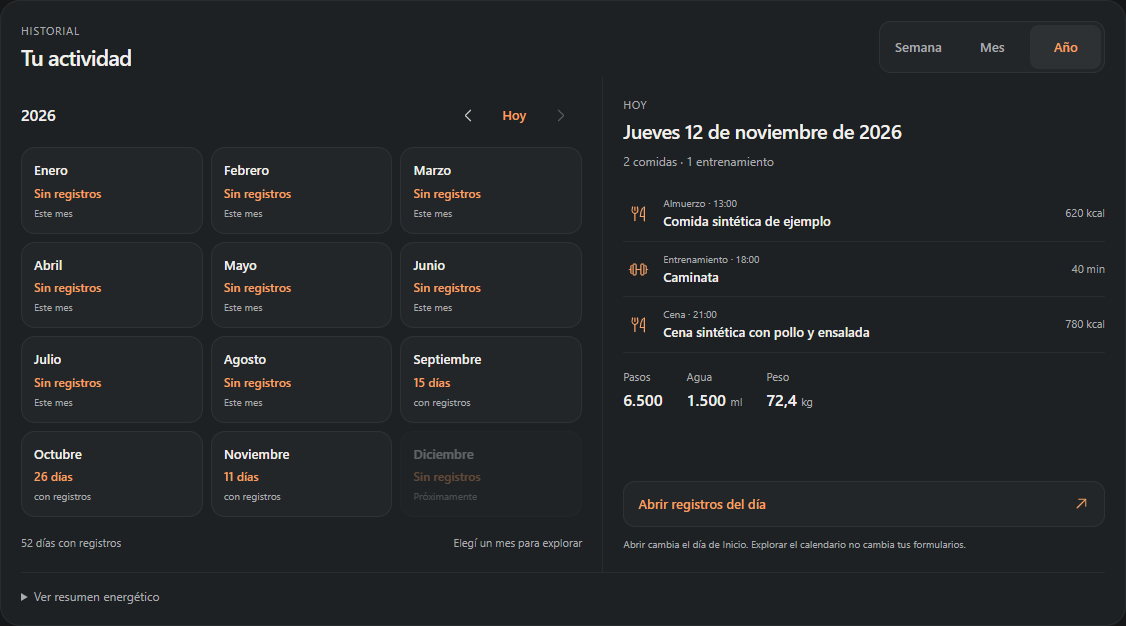
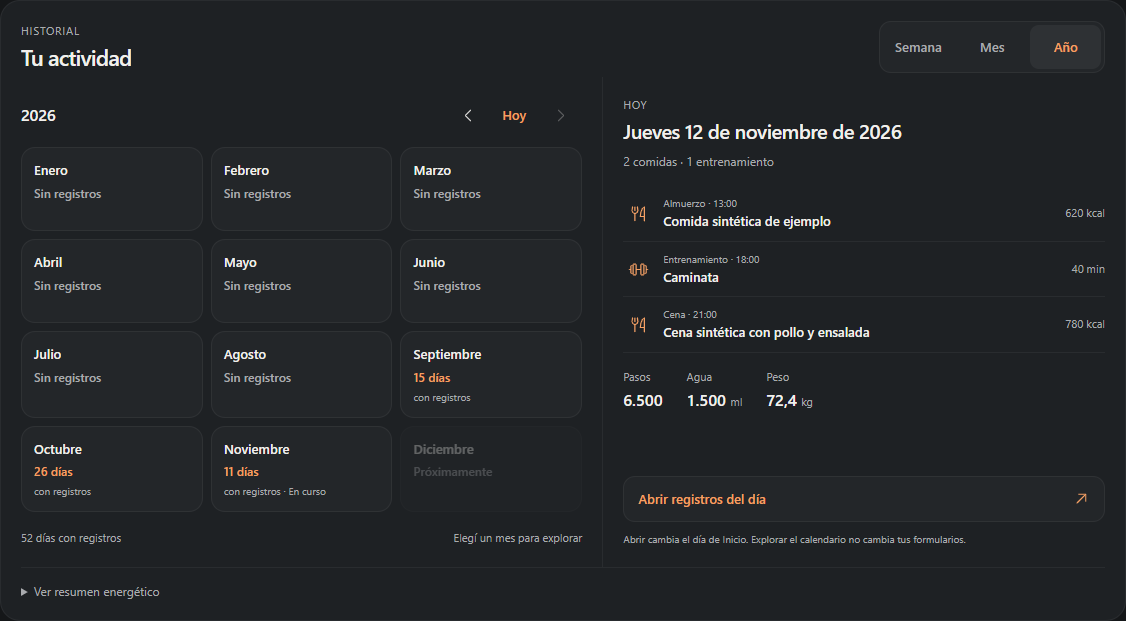
docs: refresh annual activity labels evidence

diff --git a/docs/activity-history-v2.md b/docs/activity-history-v2.md
@@ -40,8 +40,14 @@ Se distinguen las capturas aisladas del componente —con contenedores desplegad
 
 El gate final de Linux aprobó **569/569 pruebas**, en 47 archivos, con **0 fallos, 0 omisiones, 0 cancelaciones y 0 pendientes**. TypeScript del frontend, API de IA y Coach, lint, build y diff check aprobaron. Lint informó 12 advertencias y 0 errores. Incluye PostgreSQL 17.6 y PostgREST 16.5 reales en un entorno descartable, con rollback, idempotencia, conflictos, reset, aislamiento y lecturas anidadas existentes. No certifica servicios Supabase Auth/Storage HTTP reales. El [manifiesto de calidad](evidence/activity-history-v2/quality-results.json) registra comandos, versiones y resultados.
 
-La fuente y los tests certificados corresponden a `b98fbe0511138cf70abe62e540d7718df3559d18`, árbol de aplicación `d3b3afb2d6f6a6f2fd03e8e6f73fd56bfce908c6`; los commits posteriores sólo publican documentación y evidencia. En navegador se aprobaron **12/12 combinaciones y 346 comprobaciones** con captura temprana de errores, sin errores JavaScript, desbordamientos horizontales, peticiones externas ni guardados. El resumen avanzado de cuatro métricas se verificó con teclado en las doce combinaciones.
+La validación inicial completa corresponde a `b98fbe0511138cf70abe62e540d7718df3559d18`, árbol de aplicación `d3b3afb2d6f6a6f2fd03e8e6f73fd56bfce908c6`. En navegador se aprobaron **12/12 combinaciones y 346 comprobaciones** con captura temprana de errores, sin errores JavaScript, desbordamientos horizontales, peticiones externas ni guardados. El resumen avanzado de cuatro métricas se verificó con teclado en las doce combinaciones. La corrección posterior de etiquetas de Año se verifica de forma focalizada a continuación.
 
 La primera suite completa había aprobado 567/569: dos fixtures fallaron al buscar la memoria de scroll en una posición numérica de hooks que ya correspondía a otro ref. Se conservaron sus aserciones de navegación y sesiones y se corrigió el lookup del harness; su archivo completo aprobó 29/29 y después se repitió la suite completa con el resultado final anterior. Las pruebas con App real verifican además navegación, contexto por usuario y conservación del borrador.
 
 Todos los fixtures son sintéticos; las capturas no certifican Auth, Storage ni Gemini remotos. No se certifican Safari/iOS o Android físicos ni una sesión real de NVDA/VoiceOver. No se modifica Production y el PR permanece Draft para aprobación visual.
+
+## Corrección de etiquetas de Año
+
+En `217067e`, los meses pasados vacíos muestran sólo **Sin registros**, el mes actual indica **En curso** y los futuros **Próximamente**. Se elimina la condición que etiquetaba cualquier mes no futuro como «Este mes». Los estados sin actividad usan el token neutro existente; el naranja se conserva para meses con registros. No cambian la navegación, la disposición, las agregaciones ni la persistencia.
+
+Las dos regresiones nuevas fallaron antes de la corrección. Después aprobaron **39/39 pruebas relacionadas** —31 de historial, 6 de layout y 2 de UI—, TypeScript, lint (12 advertencias, 0 errores), build y diff check. La revisión focalizada de Año aprobó **40 comprobaciones** en móvil/escritorio y ambos temas, incluidos mes actual vacío y con actividad. No se repitió la suite histórica de PostgreSQL; su resultado inicial de 569/569 queda identificado con su commit original. Las capturas y la evidencia de este ajuste están en la sección Año de la galería.

diff --git a/docs/evidence/activity-history-v2/README.md b/docs/evidence/activity-history-v2/README.md
@@ -1,6 +1,8 @@
 # Historial de actividad 2.0 — evidencia visual
 
-Datos, cuentas y registros exclusivamente sintéticos. No se consultó Production ni se copiaron capturas del video original. Referencia real: `c623f9b`; fuente final: `b98fbe0` (árbol `d3b3afb2d6f6a6f2fd03e8e6f73fd56bfce908c6`). Chrome `157.0.8103.51`, Playwright 1.56.1, fecha fija 12 de noviembre de 2026.
+Datos, cuentas y registros exclusivamente sintéticos. No se consultó Production ni se copiaron capturas del video original. Referencia real: `c623f9b`; fuente inicial de la matriz: `b98fbe0` (árbol `d3b3afb2d6f6a6f2fd03e8e6f73fd56bfce908c6`). Chrome `157.0.8103.51`, Playwright 1.56.1, fecha fija 12 de noviembre de 2026.
+
+Actualización acotada de Año: `217067e`. Se verificaron 393 y 1440 px en ambos temas, con escenarios con registros y vacíos: **4 vistas y 40 comprobaciones**, sin errores, desbordamientos, peticiones externas ni guardados. Los meses pasados vacíos muestran sólo «Sin registros» neutral; el actual indica «En curso» y el futuro sólo «Próximamente» neutral. La matriz general, la suite completa y el video anteriores conservan sus fuentes y resultados originales; no se repitieron para esta corrección. [Manifiesto del parche](year-labels-checks.json).
 
 ## Antes y después
 
@@ -15,9 +17,9 @@ Los PNG aislados muestran el componente completo: el harness despliega temporalm
 
 ## Recorrido y estados
 
-- [Video móvil, 19.7 segundos](walkthrough-mobile.mp4): calendario mensual, ayer, Hoy, día vacío, actividad incompleta, Año → Mes, Semana, abrir registros y volver conservando fecha y período. H.264, 394×852, 10 fps, sin audio. El viewport original de 393 px tiene un píxel adicional de padding para el codec, sin escalar el contenido. [Decodificación y SHA-256](video-verification.json).
+- [Video móvil, 19.7 segundos](walkthrough-mobile.mp4): calendario mensual, ayer, Hoy, día vacío, actividad incompleta, Año → Mes, Semana, abrir registros y volver conservando fecha y período. H.264, 394×852, 10 fps, sin audio. El viewport original de 393 px tiene un píxel adicional de padding para el codec, sin escalar el contenido. [Decodificación y SHA-256](video-verification.json). Sus rótulos de Año son anteriores al parche; para aprobar esos estados usá las cuatro capturas actualizadas.
 - Semana: [móvil](week-light-393.png) · [desktop](week-dark-1440.png).
-- Año: [móvil](year-light-393.png) · [desktop](year-dark-1440.png).
+- Año actualizado: móvil [claro](year-light-393.png) · [oscuro](year-dark-393.png); desktop [claro](year-light-1440.png) · [oscuro](year-dark-1440.png).
 - Día incompleto: [móvil](incomplete-light-393.png) · [desktop](incomplete-dark-1440.png).
 - [Resumen energético avanzado](energy-dark-1440.png): conserva promedio, acumulado, consumidas y gasto estimado; no domina la exploración principal.
 
